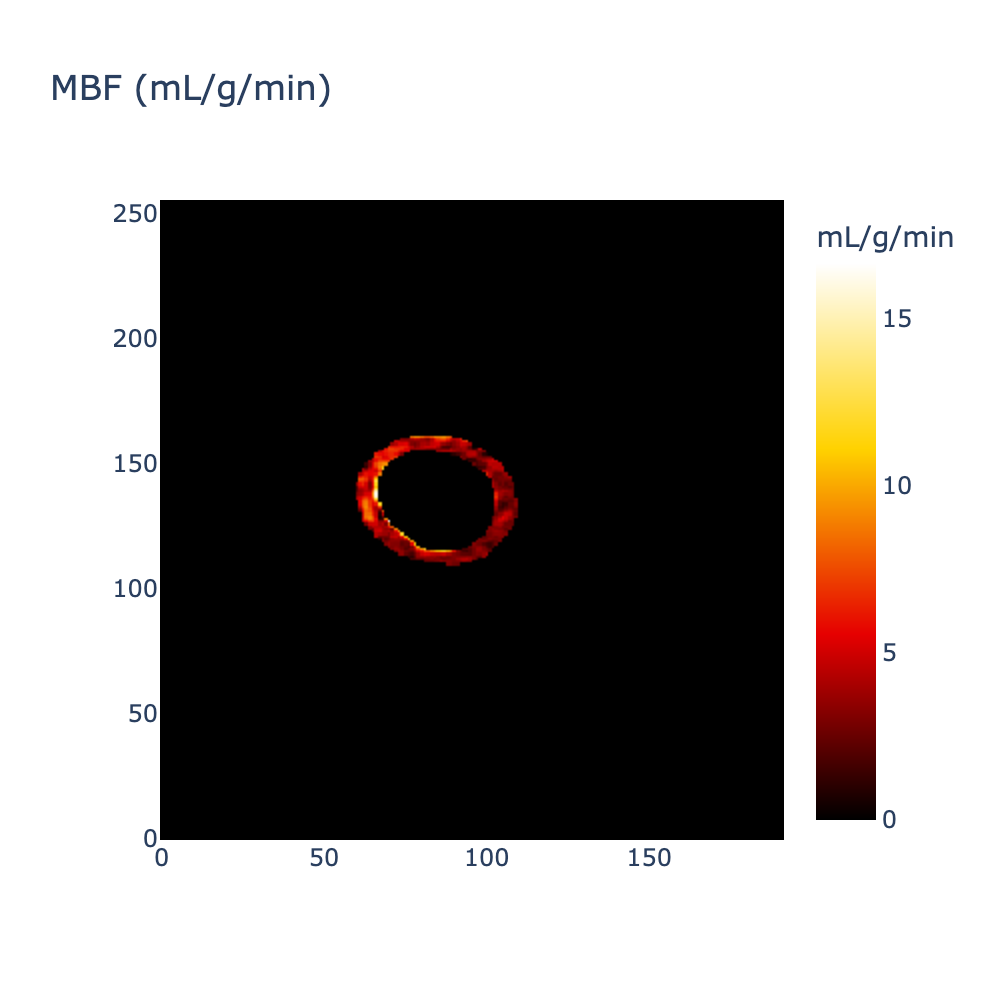
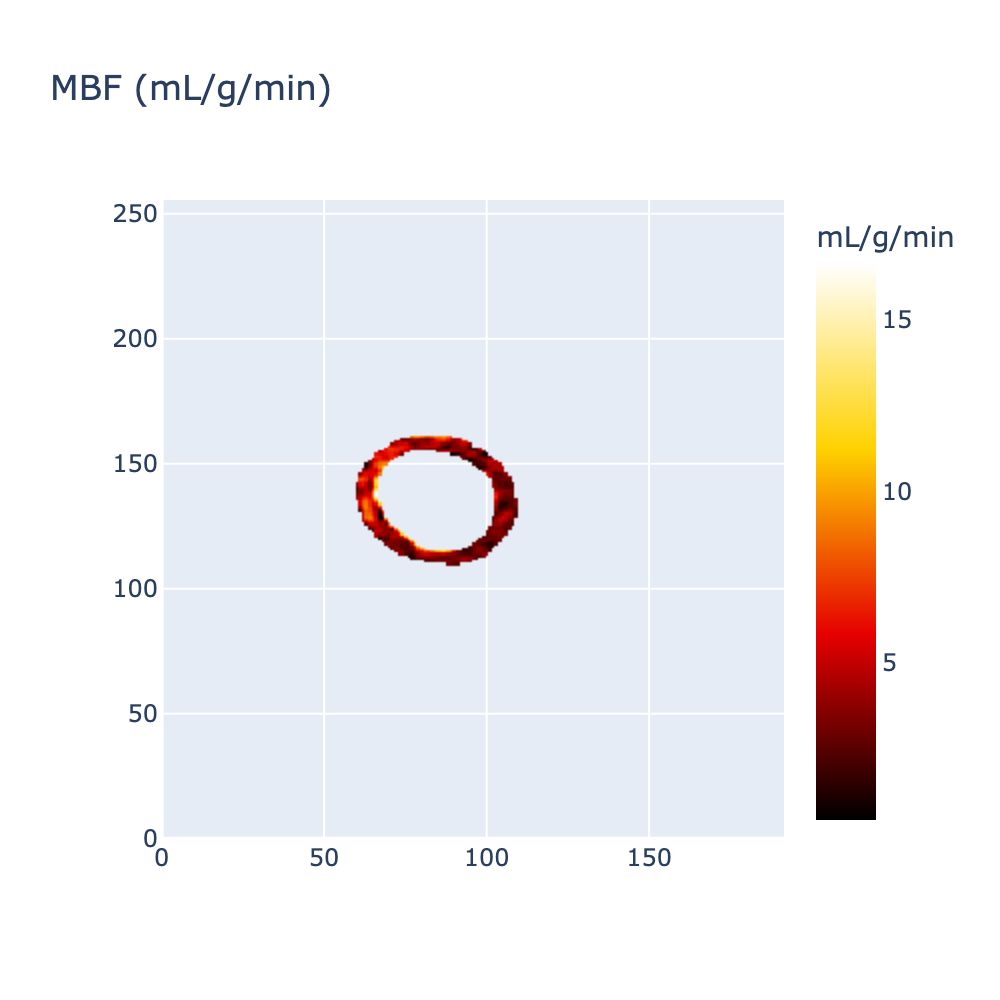
image of mbf map was updated

diff --git a/vis_check.py b/vis_check.py
@@ -91,8 +91,9 @@ def main():
 
     plot_sanity_check(times, aif_t, myo_pix_t, myo_pix_conv_t, h_t)
 
-    img = sitk.ReadImage("./cpp/mbf_map.nii")
+    img = sitk.ReadImage("./mbf_map.nii")
     mbf_map = sitk.GetArrayFromImage(img)
+    mbf_map[mbf_map == 0] = np.nan
     plot_mbf_map(mbf_map)
 
 
